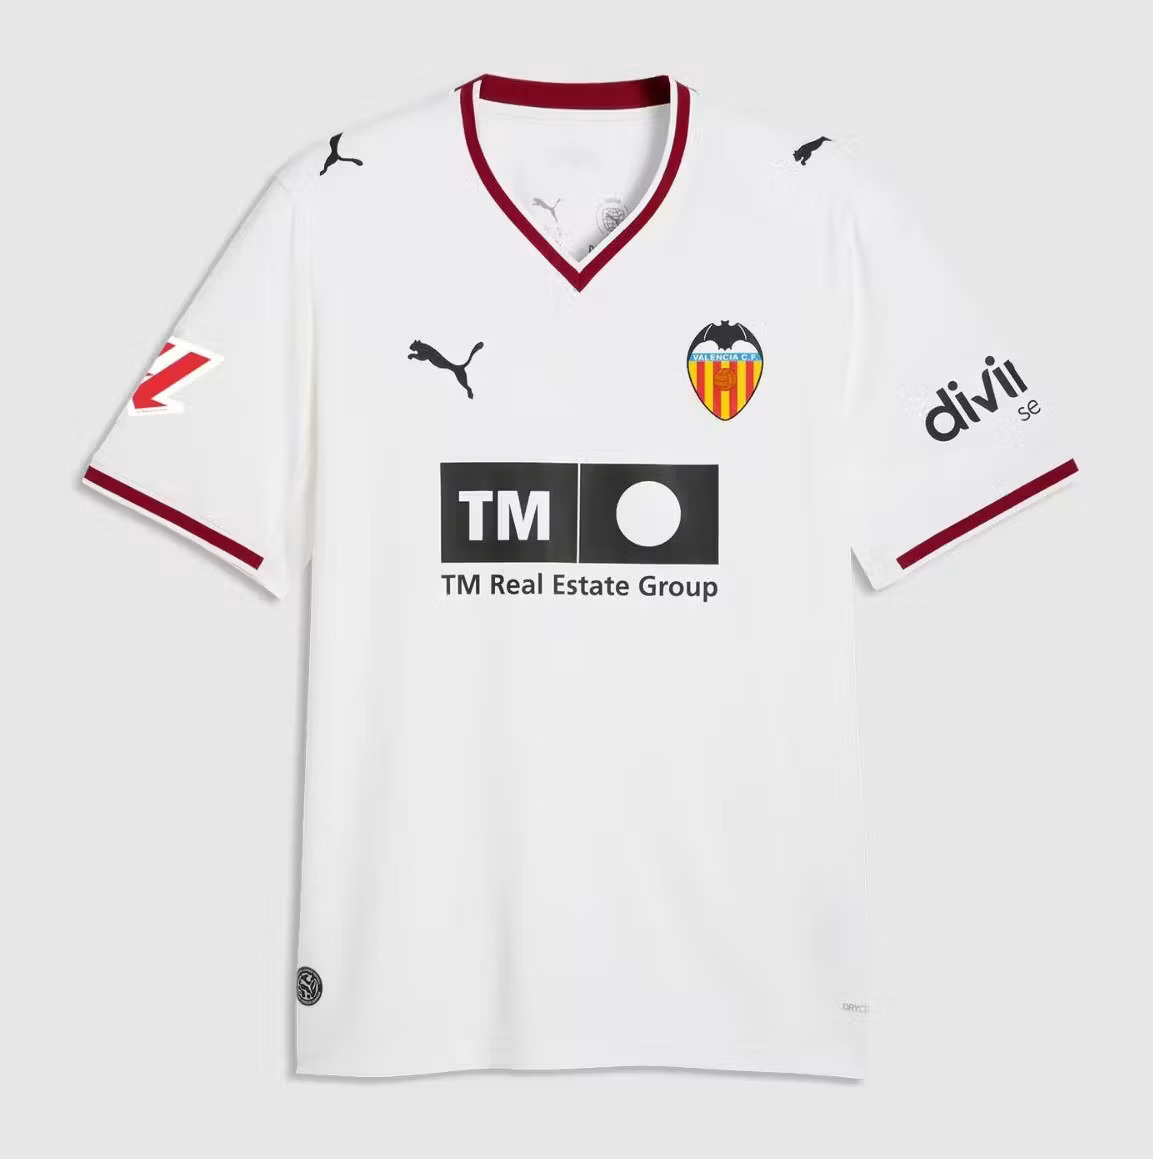
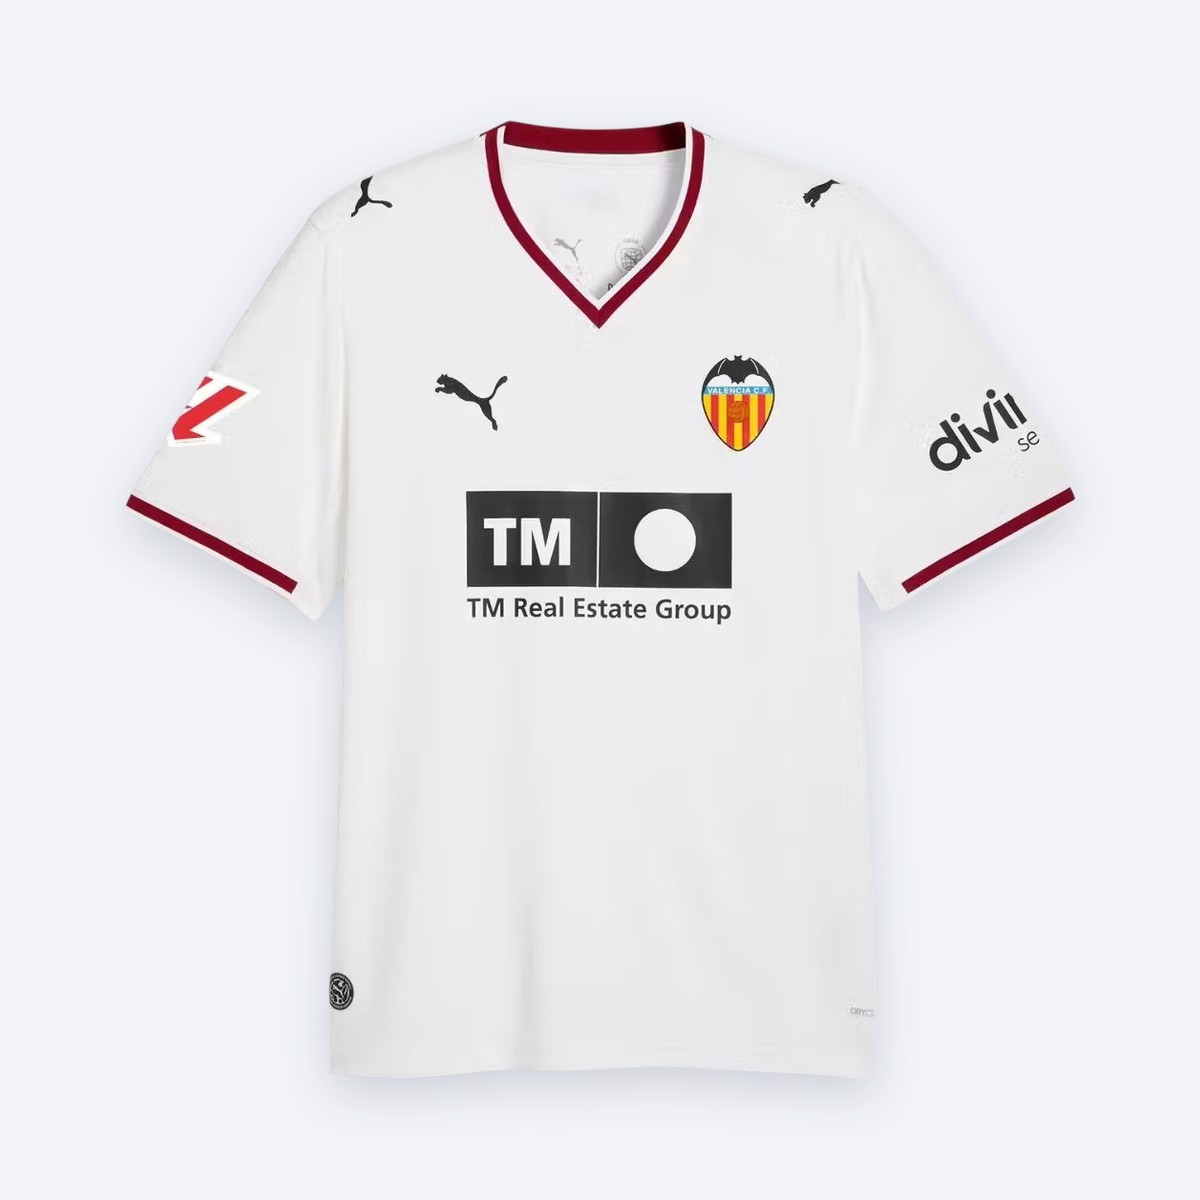
Standardize the nine white-on-white / failed-matte card photos via Photoroom cut-outs
Inter away, Liverpool away, Tottenham home, Valencia home, West Ham away,
Chelsea third, Torino away, Turkey home and PSG away: background removed with
Photoroom (cut-out only, no generative edit), then laid out on the catalogue
standard (1200x1200, #F1F3F7, 80% height, same shadow) by standardize.py,
which now takes a ready-made transparent cut-out as input. Chelsea third is an
admin upload, so its copy goes under public/products/std/ via the override map.

Claude-Session: https://claude.ai/code/session_01Du4fds4LijxGgBnY1Wn1TW

diff --git a/scripts/images/standardize.py b/scripts/images/standardize.py
@@ -173,6 +173,18 @@ def defringe(rgb: np.ndarray, alpha: np.ndarray, bg: np.ndarray) -> np.ndarray:
 
 def standardize(path: str, out_path: str, allow_edge: bool = False) -> dict:
     img = Image.open(path)
+    if img.mode == "RGBA" and img.getchannel("A").getextrema()[0] < 8:
+        # Already a cut-out (e.g. a Photoroom background removal for a white
+        # shirt on white that the automatic matte could not separate): use
+        # its alpha as is and only lay it out on the standard canvas.
+        rgba = np.asarray(img)
+        rgb = rgba[..., :3]
+        alpha = rgba[..., 3].astype(np.float32) / 255
+        bg = np.array([255, 255, 255])
+        diag = {"components": 1, "uniform_background": True, "tolerance": 0, "ai_missed_share": 0.0,
+                "colour_missed_share": 0.0, "touches_border": False, "edge_share": 0.0, "source_cutout": True}
+        fg = rgb.astype(np.float32)
+        return _layout(path, out_path, rgb, alpha, fg, bg, diag)
     img = img.convert("RGB")
     rgb = np.asarray(img)
     bg = border_colour(rgb)
@@ -202,7 +214,11 @@ def standardize(path: str, out_path: str, allow_edge: bool = False) -> dict:
             **diag,
         }
     fg = defringe(rgb, alpha, bg)
+    return _layout(path, out_path, rgb, alpha, fg, bg, diag)
 
+
+def _layout(path: str, out_path: str, rgb: np.ndarray, alpha: np.ndarray, fg: np.ndarray, bg: np.ndarray, diag: dict) -> dict:
+    """Crop to the shirt, scale to the standard box, centre on the canvas, add the shadow, save."""
     ys, xs = np.where(alpha > 0.1)
     if not len(xs):
         return {"source": path, "status": "failed", "reason": "no garment found"}

diff --git a/docs/image-standardization.md b/docs/image-standardization.md
@@ -31,8 +31,13 @@ First pass (612 photos inspected: 503 committed, 91 admin uploads, 18 new retro 
 234 left as the original because the automatic shape check could not confirm a whole shirt
 (crest/label close-ups, folded or tilted shots, damaged mattes) - conservative on purpose.
 
-Card fronts still on the original photo (need a better source photo or a manual cut-out):
-inter-milan away, liverpool away, tottenham home, valencia home, west-ham away, chelsea third
-(white on white); iraq third, newcastle home/away/third, psg third (model shots - psg third also
-carries a "X/..." watermark, which breaks the photo rules); torino away, turkey home, psg away
-(matte failed). Athletic Bilbao away/third and Fiorentina third have no photo.
+2026-11-10: the nine card fronts the automatic matte could not separate (inter-milan away,
+liverpool away, tottenham home, valencia home, west-ham away, chelsea third - white on white;
+torino away, turkey home, psg away) were cut out with Photoroom background removal (the owner's
+Photoroom connector; a cut-out only, no generative edit) and laid out with
+`standardize.py`, which now accepts a ready-made transparent cut-out as input.
+
+Card fronts still on the original photo: iraq third, newcastle home/away/third, psg third (model
+shots - a person wearing the shirt; background removal keeps the person, and Photoroom's ghost
+mannequin needs a paid tier - psg third also carries a "X/..." watermark, which breaks the photo
+rules). Athletic Bilbao away/third and Fiorentina third have no photo.
